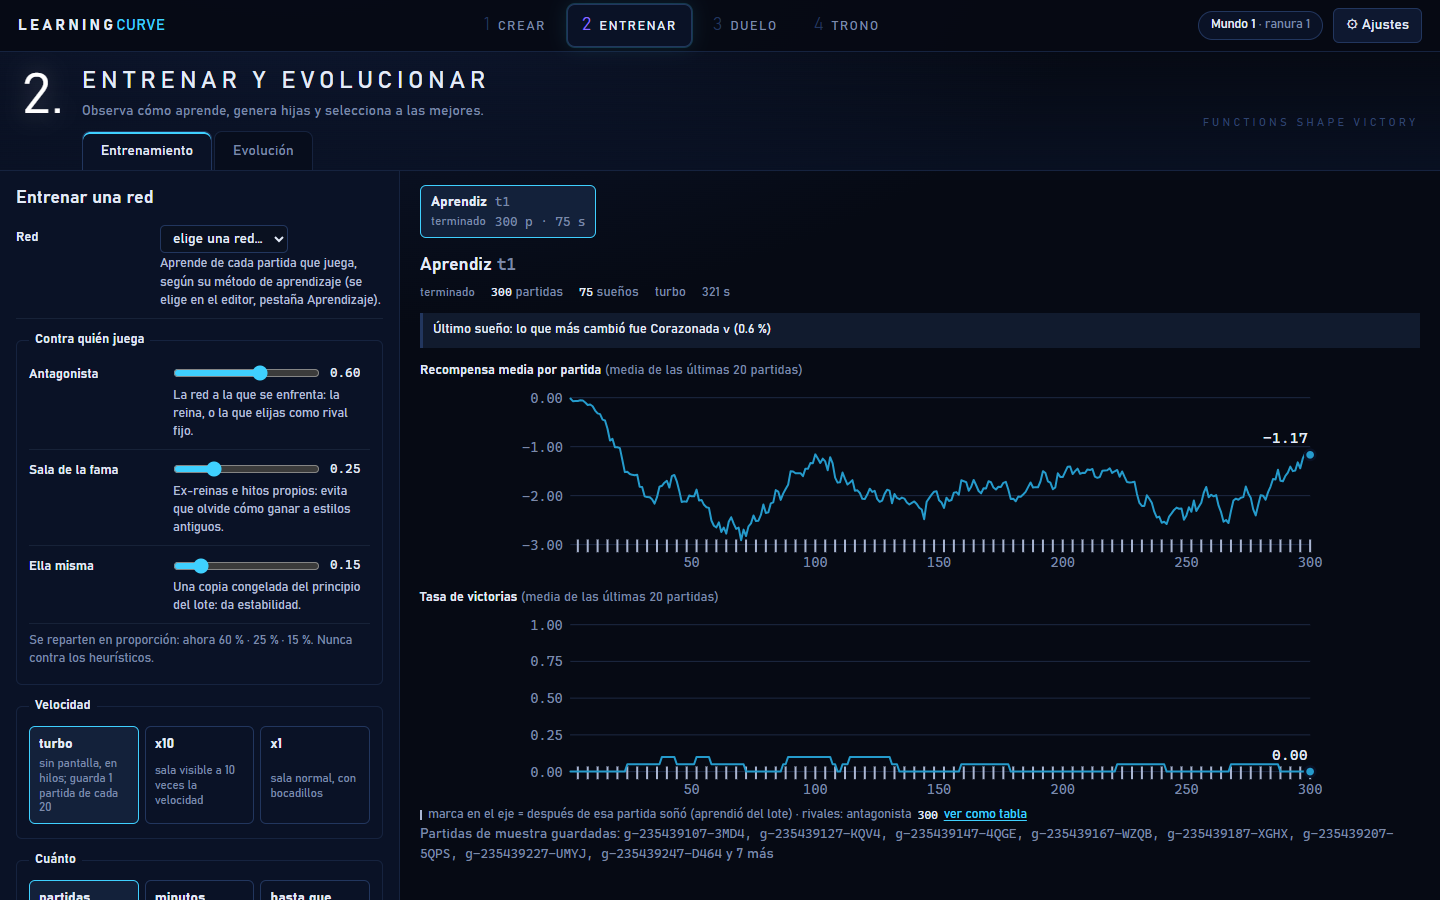
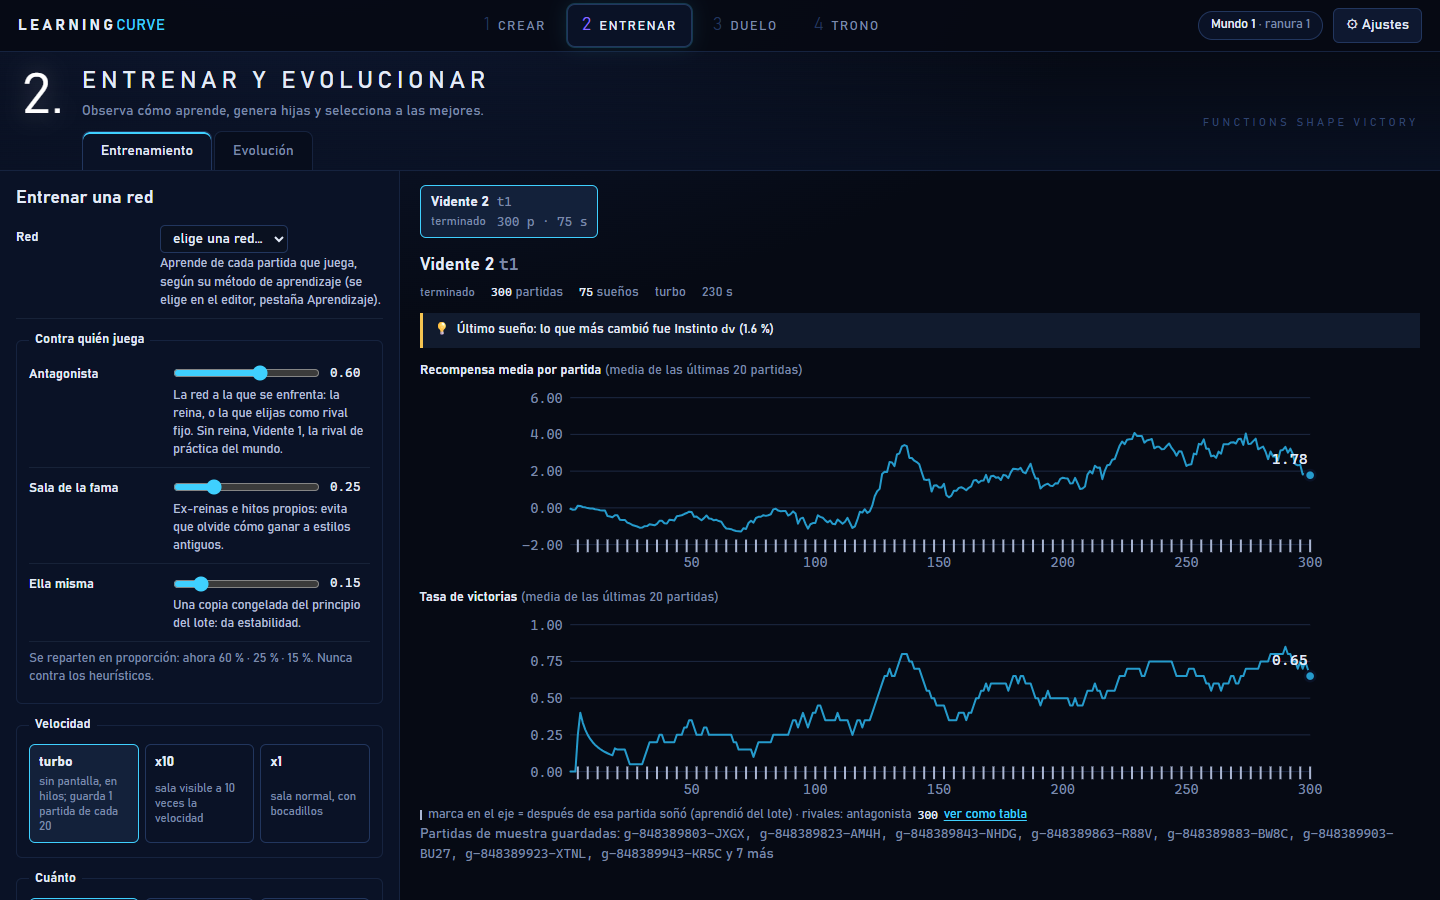
docs: la Vidente aprende: curva de victorias, qué fallaba y cómo se comprueba; capturas nuevas de entreno y trono

diff --git a/README.md b/README.md
@@ -35,12 +35,12 @@ Cada partida guardada es un mundo con sus redes, su trono y su historia, y empie
 | 1. Crear | 2. Entrenar |
 | :---: | :---: |
 | <img src="docs/media/crear.png" width="420"> | <img src="docs/media/entrenar.png" width="420"> |
-| El editor de redes: bloques a la izquierda, el grafo en el centro y un banco de pruebas que enseña qué tiro escoge la red y por qué. | Entrenos con su curva de recompensa y de victorias en directo. Después de cada lote la red "sueña" y aprende, y la interfaz dice qué bloque cambió más. |
+| El editor de redes: bloques a la izquierda, el grafo en el centro y un banco de pruebas que enseña qué tiro escoge la red y por qué. | Una Vidente nueva entrenando 300 partidas contra `chaos`: sus victorias pasan de casi ninguna a un 65 %. Después de cada lote la red "sueña" y aprende, y la interfaz dice qué bloque cambió más. |
 
 | 3. Duelo | 4. Trono |
 | :---: | :---: |
 | <img src="docs/media/duelo.png" width="420"> | <img src="docs/media/trono.png" width="420"> |
-| Dos redes juegan en directo. A la derecha, los candidatos que barajó la red, la probabilidad de cada uno y el registro de la partida. | La reina y sus retadoras, los duelos mapa a mapa, las dinastías y el árbol genealógico de cada red. |
+| Dos redes juegan en directo. A la derecha, los candidatos que barajó la red, la probabilidad de cada uno y el registro de la partida. | Esa Vidente, ya entrenada, le quita el trono a Vidente 1, que pasa a la sala de la fama. También están los duelos mapa a mapa, las dinastías y el árbol genealógico. |
 
 <!-- VIDEO_DUELO: enlace de user-attachments de _work/video-lc/duelo.mp4 y debajo:
 <sub>Un duelo en directo entre Vidente 1 y una red recién creada.</sub>
@@ -58,25 +58,39 @@ La vista se puede cambiar en cualquier momento, y el tutorial (8 capítulos cort
 
 ## ¿Aprende de verdad?
 
-Depende del rival. Entrené redes nuevas, sin ningún entreno previo, durante 300 partidas con la receta por defecto pero siempre contra el mismo bot, y medí cuántos enemigos eliminaban por partida:
+Sí, aunque al principio no. La primera versión de la Vidente apenas aprendía, y buscar el motivo es lo que más me enseñó del proyecto.
 
 <picture>
   <source media="(prefers-color-scheme: dark)" srcset="docs/media/curva-aprendizaje-oscuro.svg">
-  <img src="docs/media/curva-aprendizaje-claro.svg" alt="Bajas por partida durante 300 partidas de entreno: la Vidente contra chaos pasa de unas 0,2 a unas 0,7; los dos Francotiradores suben menos y con mucho ruido" width="760">
+  <img src="docs/media/curva-aprendizaje-claro.svg" alt="Victorias durante 300 partidas de entreno contra chaos: la Vidente actual pasa de ganar un 17 % de las partidas a un 64 %; la versión anterior, con el bloque Ajustar, se queda entre el 5 y el 20 %" width="760">
 </picture>
 
-| Partidas | Vidente contra «chaos» | Francotirador contra «chaos» | Francotirador contra «greedy» |
-| :--- | :---: | :---: | :---: |
-| 1–50 | 0,24 bajas (6 % de victorias) | 0,40 (2 %) | 0,22 (4 %) |
-| 51–100 | 0,48 (12 %) | 0,40 (8 %) | 0,28 (2 %) |
-| 101–150 | 0,58 (12 %) | 0,42 (12 %) | 0,40 (2 %) |
-| 151–200 | 0,54 (10 %) | 0,42 (12 %) | 0,40 (8 %) |
-| 201–250 | 0,60 (10 %) | 0,52 (8 %) | 0,54 (6 %) |
-| 251–300 | 0,78 (20 %) | 0,56 (12 %) | 0,46 (10 %) |
+| Partidas | Vidente ahora (media de 3 entrenos) | Vidente con Ajustar (versión anterior) |
+| :--- | :---: | :---: |
+| 1–50 | 17 % de victorias (0,65 bajas) | 6 % (0,24 bajas) |
+| 51–100 | 40 % (1,30 bajas) | 12 % (0,48 bajas) |
+| 101–150 | 55 % (1,46 bajas) | 12 % (0,58 bajas) |
+| 151–200 | 65 % (1,93 bajas) | 10 % (0,54 bajas) |
+| 201–250 | 65 % (1,91 bajas) | 10 % (0,60 bajas) |
+| 251–300 | 64 % (1,82 bajas) | 20 % (0,78 bajas) |
 
-`chaos` es un bot que dispara casi al azar y `greedy` uno que busca el mejor tiro posible. La Vidente, que tiene el bloque Simulador (sabe qué pasaría con cada tiro antes de dispararlo), triplica sus bajas en 300 partidas. El Francotirador, que solo ve la geometría, mejora más despacio. Contra `greedy` la señal es débil: la red pierde casi siempre y le cuesta saber qué hizo bien. Con 100 partidas más, el Francotirador contra `greedy` volvió a bajar a 0,26 bajas por partida, así que la curva tiene mucho ruido.
+Cada entreno empieza con una Vidente nueva, sin ningún entreno previo, que juega 300 partidas contra el bot `chaos` en el servidor en modo demo (un solo hilo, como la demo pública). `chaos` no dispara a ciegas: inventa 70 funciones raras, las simula y dispara una de las 6 mejores.
 
-En el examen fijo del boletín (40 escenas de un solo disparo, siempre las mismas), el Francotirador entrenado contra `chaos` pasó de acertar el 10 % de los tiros al 17,5 %, y su supervivencia contra el bot Sniper subió del 5 % al 25 %. Es una mejora real pero modesta: para jugar bien hacen falta miles de partidas, no cientos.
+### Qué fallaba
+
+La Vidente tiene el bloque Simulador: antes de disparar sabe, para cada uno de sus 24 tiros candidatos, si mataría a alguien. Con esa información aprender debería ser fácil. Para comprobarlo programé un oráculo que escoge siempre el candidato que más mata según el Simulador, y contra `chaos` gana el 78 % de las partidas. La Vidente, en cambio, escogía el tiro que mata en un 2-4 % de los disparos, lo mismo que eligiendo al azar, y seguía igual después de 300 partidas.
+
+El problema era el bloque Ajustar. Después de escoger un candidato, Ajustar le da un pequeño empujón a sus parámetros, pero el Simulador había visto el tiro sin empujar. En una Vidente entrenada, 28 de unos 36 tiros que la simulación daba por buenos fallaron después del empujón. Si la red escoge bien y aun así falla, no recibe la recompensa y no tiene de qué aprender. Lo comprobé dejando Ajustar congelado, sin aprender: la red siguió sin aprender. Sin Ajustar, aprendió con todas las semillas que probé.
+
+Ahora la plantilla Vidente no lleva Ajustar y aprende con una tasa de 0,01 en vez de 0,003. También cambié el rival por defecto: si el mundo todavía no tiene reina, el entreno juega contra Vidente 1, la rival de práctica que trae cada mundo. Antes jugaba solo contra copias de sí misma, y así la tasa de victorias no podía subir aunque la red mejorara.
+
+### Cómo se comprueba
+
+`test/aprende.spec.mjs` entrena una Vidente 150 partidas contra `chaos` y después examina la red congelada en 40 partidas fijas, igual que a una Vidente sin entrenar. Sin entrenar escoge el tiro que mata el 14 % de las veces que tiene uno y gana el 13 % de las partidas. Entrenada, el 75 % y el 45 %. La prueba es determinista: el mismo entreno da siempre la misma red.
+
+En el boletín del juego (40 escenas fijas de un solo disparo) las tres Videntes pasaron de acertar el 15 % de los tiros al 50 %, y su supervivencia contra el bot Sniper subió del 0 % al 35-40 %.
+
+Lo que no está resuelto: el Francotirador, que no tiene Simulador y solo ve la geometría, mejora mucho más despacio (de 0,40 a 0,56 bajas por partida en 300 partidas contra `chaos`), y contra `greedy`, que busca el mejor tiro posible, la señal es débil y con mucho ruido.
 
 Los datos salen de los registros de cada entreno (`curve` en `records/trainings/<id>.json`).
 
